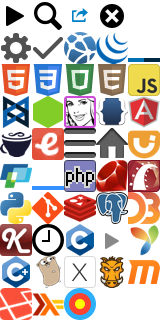
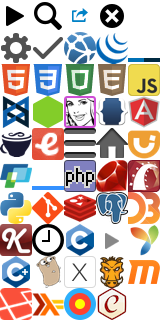
Add Chai documentation

Changed region(s): [[0.5938, 0.875, 0.8125, 1.0]]

diff --git a/assets/stylesheets/pages/_chai.scss b/assets/stylesheets/pages/_chai.scss
@@ -1,0 +1,13 @@
+._chai {
+  padding-left: 1rem;
+
+  > h1, > h2, h3 { margin-left: -1rem; }
+  > h2 { @extend %block-heading; }
+  h3 { @extend %block-label, %label-blue; }
+  h4 { font-size: 1em; }
+
+  code { @extend %label; }
+  blockquote { @extend %note; }
+
+  li.tag span { margin-right: 5px; }
+}

diff --git a/assets/stylesheets/global/_icons.scss b/assets/stylesheets/global/_icons.scss
@@ -59,3 +59,4 @@
 ._icon-laravel:before       { background-position: 0 -9rem; }
 ._icon-haskell:before       { background-position: -1rem -9rem; }
 ._icon-requirejs:before     { background-position: -2rem -9rem; }
+._icon-chai:before          { background-position: -3rem -9rem; }

diff --git a/assets/stylesheets/application.css.scss b/assets/stylesheets/application.css.scss
@@ -30,6 +30,7 @@
 
 @import 'pages/angular',
         'pages/c',
+        'pages/chai',
         'pages/coffeescript',
         'pages/d3',
         'pages/ember',

diff --git a/lib/docs/scrapers/chai.rb b/lib/docs/scrapers/chai.rb
@@ -1,0 +1,23 @@
+module Docs
+  class Chai < UrlScraper
+    self.name = 'Chai'
+    self.type = 'chai'
+    self.version = '1.9.1'
+    self.base_url = 'http://chaijs.com'
+    self.root_path = '/api/'
+    self.initial_paths = %w(/guide/installation/)
+
+    html_filters.push 'chai/entries', 'chai/clean_html'
+
+    options[:container] = '#content'
+    options[:trailing_slash] = true
+
+    options[:only_patterns] = [/\A\/guide/, /\A\/api/]
+    options[:skip] = %w(/api/test/ /guide/ /guide/resources/)
+
+    options[:attribution] = <<-HTML
+      &copy; 2011&ndash;2014 Jake Luer<br>
+      Licensed under the MIT License.
+    HTML
+  end
+end

diff --git a/lib/docs/filters/chai/entries.rb b/lib/docs/filters/chai/entries.rb
@@ -1,0 +1,22 @@
+module Docs
+  class Chai
+    class EntriesFilter < Docs::EntriesFilter
+      def get_name
+        at_css('h1').content
+      end
+
+      def get_type
+        subpath.start_with?('/guide') ? 'Guides' : nil
+      end
+
+      def additional_entries
+        css('.antiscroll-inner a').each_with_object [] do |node, entries|
+          id = node['href'].remove('#') + '-section'
+          node.content.strip.split(' / ').uniq { |name| name.downcase }.each do |name|
+            entries << [name, id, self.name]
+          end
+        end
+      end
+    end
+  end
+end

diff --git a/lib/docs/filters/chai/clean_html.rb b/lib/docs/filters/chai/clean_html.rb
@@ -1,0 +1,24 @@
+module Docs
+  class Chai
+    class CleanHtmlFilter < Filter
+      def call
+        @doc = at_css('.documentation .rendered')
+
+        if root_page?
+          at_css('h1').content = 'Chai Assertion Library'
+        end
+
+        css('> article', '.header').each do |node|
+          node.before(node.children).remove
+        end
+
+        # Remove code highlighting
+        css('pre').each do |node|
+          node.content = node.content
+        end
+
+        doc
+      end
+    end
+  end
+end
